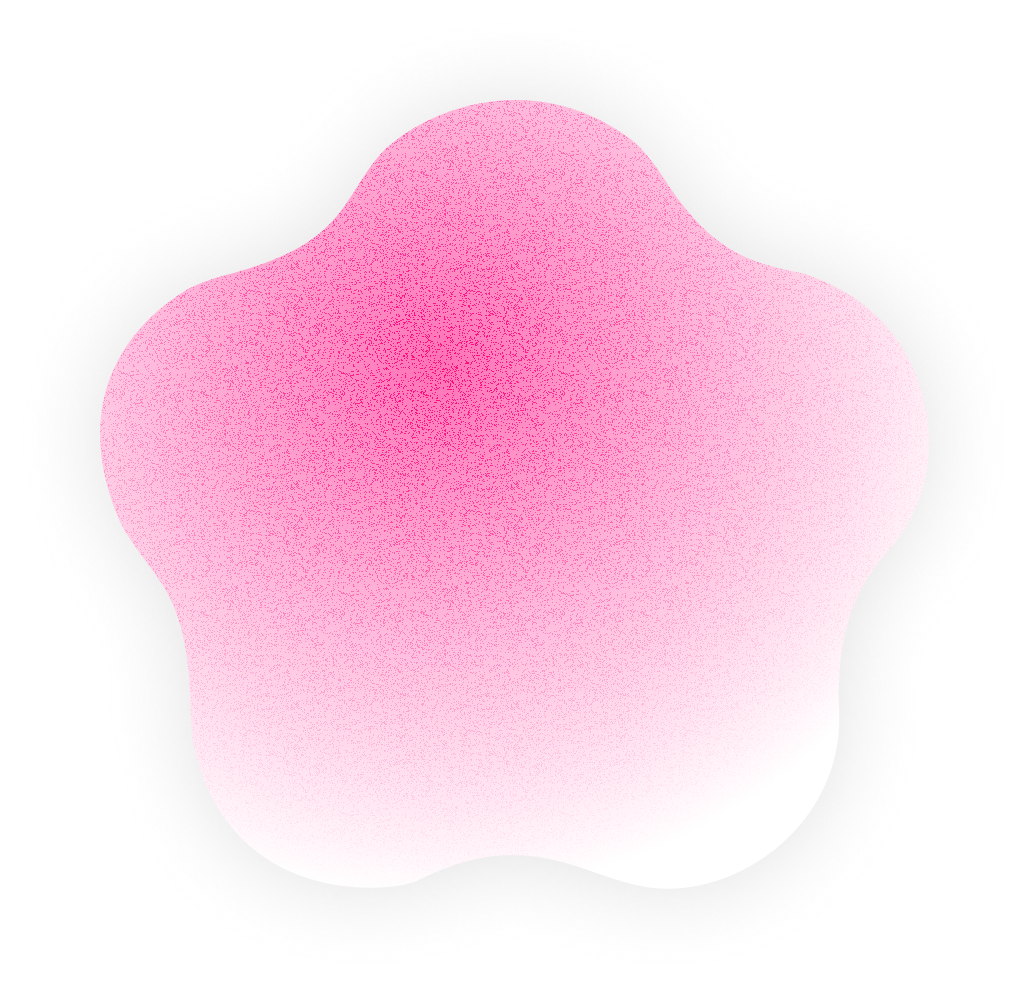
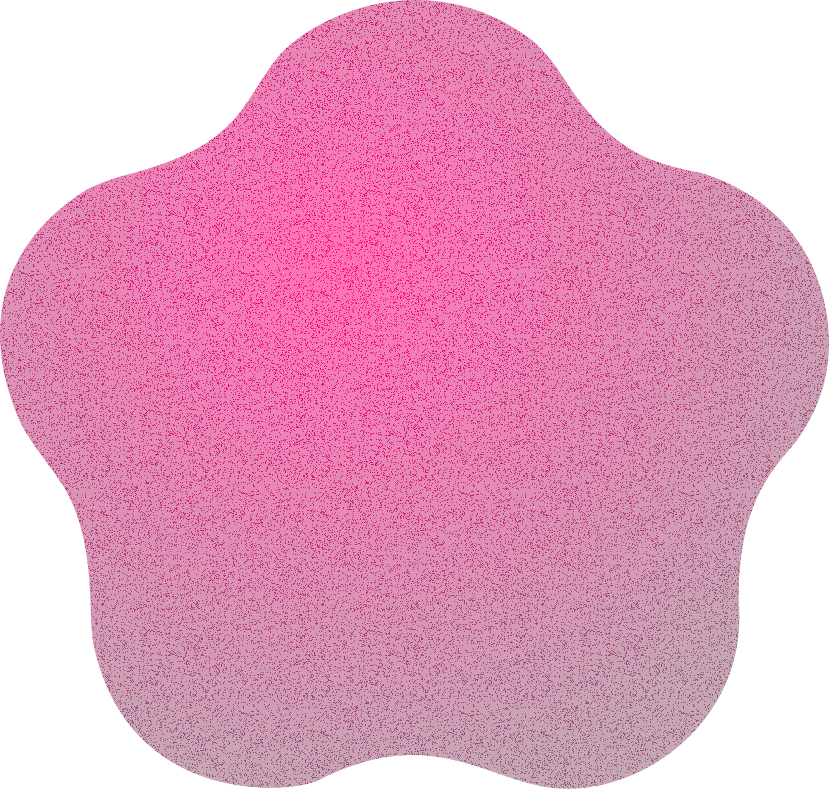
Refactors the avbar scroll controller to a GSAP-driven API to improve performance and user experience

diff --git a/js/scrollNav.js b/js/scrollNav.js
@@ -1,5 +1,5 @@
 /**
- * scrollNav – hide/show the desktop navbar based on scroll direction.
+ * scrollNav – GSAP-driven navbar hide/show controller.
  *
  * Behaviour:
  *   • Scroll DOWN past threshold → navbar slides up & hides
@@ -7,51 +7,83 @@
  *   • At page top (scrollY ≤ threshold) → always visible
  *   • Keyboard focus on a nav-link → always visible (a11y)
  *
- * Performance:
- *   • passive listener — never blocks scrolling
- *   • requestAnimationFrame guard — max 1 update per frame
- *   • transform + opacity — GPU-composited, no layout/paint
+ * Animation is driven externally by a ScrollTrigger onUpdate callback
+ * so the navbar and hero-image rotation stay frame-synchronised.
+ *
+ * Returns a controller: { show(), hide(), forceShow(), isHidden }
+ * or null if .sticky-nav is not in the DOM.
+ *
+ * Falls back to the original CSS-class approach when GSAP is not loaded.
  */
 
 function scrollNav() {
   const nav = document.querySelector(".sticky-nav");
-  if (!nav) return; // page may not contain the navbar
+  if (!nav) return null;
 
+  /* ── GSAP available → use quickTo tweeners ── */
+  if (typeof gsap !== "undefined") {
+    // Let GSAP own the centering so CSS translateX doesn't fight y animations
+    gsap.set(nav, { xPercent: -50, x: 0, y: 0, opacity: 1 });
+
+    const tweenY       = gsap.quickTo(nav, "y",       { duration: 0.8, ease: "power2.out" });
+    const tweenOpacity = gsap.quickTo(nav, "opacity",  { duration: 0.2, ease: "power2.out" });
+
+    const hideY = -(nav.offsetHeight + 32); // slide fully above viewport
+    let hidden = false;
+
+    function hide() {
+      if (hidden) return;
+      hidden = true;
+      tweenY(hideY);
+      tweenOpacity(0);
+      nav.style.pointerEvents = "none";
+    }
+
+    function show() {
+      if (!hidden) return;
+      hidden = false;
+      tweenY(0);
+      tweenOpacity(1);
+      nav.style.pointerEvents = "auto";
+    }
+
+    function forceShow() {
+      hidden = false;
+      tweenY(0);
+      tweenOpacity(1);
+      nav.style.pointerEvents = "auto";
+    }
+
+    // Accessibility: reveal navbar when a nav link receives keyboard focus
+    nav.addEventListener("focusin", forceShow);
+
+    return { show, hide, forceShow, get isHidden() { return hidden; } };
+  }
+
+  /* ── Fallback: no GSAP → original CSS-class approach ── */
   let lastScrollY = window.scrollY;
   let ticking = false;
-  const THRESHOLD = 5; // px – minimum delta before toggling
+  const THRESHOLD = 1;
 
   const onScroll = () => {
     if (ticking) return;
     ticking = true;
-
     requestAnimationFrame(() => {
       const currentScrollY = window.scrollY;
       const delta = currentScrollY - lastScrollY;
-
       if (currentScrollY <= THRESHOLD) {
-        // Always show at the very top of the page
         nav.classList.remove("nav-hidden");
       } else if (delta > THRESHOLD) {
-        // Scrolling down → hide
         nav.classList.add("nav-hidden");
       } else if (delta < -THRESHOLD) {
-        // Scrolling up → show
         nav.classList.remove("nav-hidden");
       }
-      // If |delta| ≤ THRESHOLD, keep current state (avoids flicker)
-
       lastScrollY = currentScrollY;
       ticking = false;
     });
   };
 
   window.addEventListener("scroll", onScroll, { passive: true });
-
-  // Accessibility: reveal navbar when a nav link receives keyboard focus
-  nav.addEventListener("focusin", () => {
-    nav.classList.remove("nav-hidden");
-  });
+  nav.addEventListener("focusin", () => nav.classList.remove("nav-hidden"));
+  return null;
 }
-
-document.addEventListener("DOMContentLoaded", scrollNav);

diff --git a/index.html b/index.html
@@ -12,7 +12,7 @@
   <link rel="shortcut icon" type="image/x-icon" href="favicon.ico">
 
   <link rel="stylesheet" href="css/reset.css" />
-  <link rel="stylesheet" href="css/styles.min.css" />
+  <link rel="stylesheet" href="css/styles.css" />
 </head>
 
 <body>
@@ -494,11 +494,11 @@
   <script src="js/gridHover.min.js"></script>
   <script src="js/modal.min.js"></script>
   <script src="js/expandable.min.js"></script>
-  <script src="js/scrollNav.js"></script>
   <script src="js/config.js"></script>
   <script src="https://cdn.jsdelivr.net/npm/gsap@3.14.1/dist/gsap.min.js"></script>
   <script src="https://cdn.jsdelivr.net/npm/gsap@3.14.1/dist/ScrollTrigger.min.js"></script>
   <script src="https://cdn.jsdelivr.net/npm/gsap@3.14.1/dist/ScrollSmoother.min.js"></script>
+  <script src="js/scrollNav.js"></script>
 
   <script>
  document.addEventListener("DOMContentLoaded", (event) => {
@@ -530,11 +530,15 @@
     });
   }
 
+  // Nav controller — GSAP-driven show/hide (initialised in scrollNav.js)
+  const scrollNavCtrl = scrollNav();
+
   // Scroll-driven rotation for hero background images
   let currentRotation = 0;
-  const SPEED_MULTIPLIER = 0.2;
+  const SPEED_MULTIPLIER = 0.1;
   const RESET_THRESHOLD = 100;  // px from top — start resetting below this
   const DECAY_RATE = 0.04;      // lerp factor per frame (0→1, higher = faster reset)
+  const NAV_VELOCITY_DEAD_ZONE = 300; // px/s — ignore jitter below this
 
   const darkImg = document.querySelector(".bg-image.dark-bg");
   const lightImg = document.querySelector(".bg-image.light-bg");
@@ -546,10 +550,9 @@
       const velocity = self.getVelocity();
       const scrollY = self.scroll();
 
+      // Hero rotation (unchanged)
       if (scrollY <= RESET_THRESHOLD) {
-        // Near top: lerp rotation back to 0
         currentRotation += (0 - currentRotation) * DECAY_RATE;
-        // Snap to exactly 0 when close enough to avoid endless micro-tween
         if (Math.abs(currentRotation) < 0.05) currentRotation = 0;
       } else {
         currentRotation += velocity * SPEED_MULTIPLIER * 0.016;
@@ -557,6 +560,17 @@
 
       rotateDark(currentRotation);
       rotateLight(currentRotation);
+
+      // Nav show/hide — synchronised with hero rotation
+      if (scrollNavCtrl) {
+        if (scrollY <= RESET_THRESHOLD) {
+          scrollNavCtrl.show();
+        } else if (velocity > NAV_VELOCITY_DEAD_ZONE) {
+          scrollNavCtrl.hide();
+        } else if (velocity < -NAV_VELOCITY_DEAD_ZONE) {
+          scrollNavCtrl.show();
+        }
+      }
     },
   });
  });

diff --git a/registration.html b/registration.html
@@ -3,8 +3,7 @@
 
 <head>
   <meta name="viewport" content="width=device-width, initial-scale=1.0, viewport-fit=cover">
-  <meta http-equiv="Content-Security-Policy" content="default-src 'self'; script-src 'self' https://cdn.jsdelivr.net; style-src 'self' 'unsafe-inline'; img-src 'self' data:; font-src 'self' https://dhygzobemt712.cloudfront.net; frame-src 'none'; connect-src 'self' https://ggjnyihrobqyfhrataru.supabase.co; object-src 'none'; base-uri 'self'">
-  <meta http-equiv="X-Frame-Options" content="DENY">
+  <meta http-equiv="Content-Security-Policy" content="default-src 'self'; script-src 'self' https://cdn.jsdelivr.net; style-src 'self' 'unsafe-inline'; img-src 'self' data:; font-src 'self' https://dhygzobemt712.cloudfront.net; frame-src 'none'; connect-src 'self' https://ssrbglntylfokegxipao.supabase.co https://cdn.jsdelivr.net; object-src 'none'; base-uri 'self'">
   <meta http-equiv="X-Content-Type-Options" content="nosniff">
   <meta http-equiv="Permissions-Policy" content="camera=(), microphone=(), geolocation=(), payment=()">
   <meta name="referrer" content="strict-origin-when-cross-origin">

diff --git a/css/styles.css b/css/styles.css
@@ -223,10 +223,10 @@ p.body-section {
 
 .bg-container {
   position: absolute;
-  left: 45%;
-  top: 2%;
+  left: 55%;
+  top: 8%;
   width: 100%;
-  height: 80vh;
+  height: 60vh;
   z-index: var(--z-background);
 }
 
@@ -306,15 +306,7 @@ section.body-section {
   justify-content: center;
   flex-wrap: nowrap;
   z-index: var(--z-nav);
-  transition: all 0.3s ease;
   cursor: pointer;
-}
-
-/* Scroll-responsive: slides navbar up out of view */
-.sticky-nav.nav-hidden {
-  transform: translateX(-50%) translateY(calc(-100% - 2rem));
-  pointer-events: none;
-  opacity: 0;
 }
 
 .nav-link {

diff --git a/js/config.js b/js/config.js
@@ -1,3 +1,3 @@
-const SUPABASE_URL = 'https://ggjnyihrobqyfhrataru.supabase.co';
-const SUPABASE_PUBLIC_KEY = 'sb_publishable_-BfvMb6yn8dCtpO1kPwaZQ_ZSI96Wz0';
+const SUPABASE_URL = 'https://ssrbglntylfokegxipao.supabase.co';
+const SUPABASE_PUBLIC_KEY = 'sb_publishable_VxSv19PZ5fTjIGreu5fuAQ_fO-Mm5Un';
 const supabaseClient = window.supabase.createClient(SUPABASE_URL, SUPABASE_PUBLIC_KEY);
